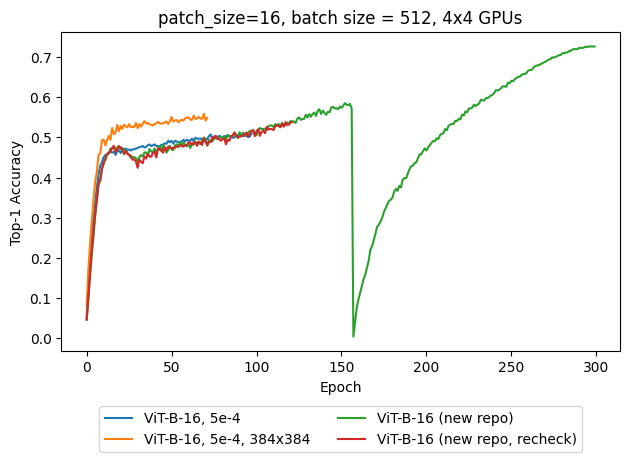
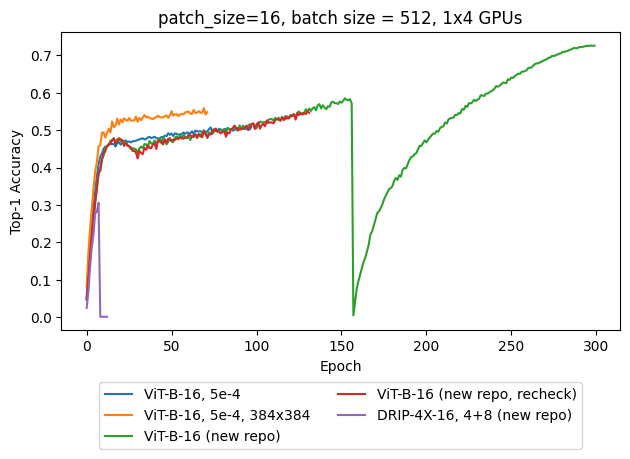
unexpected results for DRIP imagenet (due to LR?)

diff --git a/src/ImageNet_acc_vis.py b/src/ImageNet_acc_vis.py
@@ -46,7 +46,7 @@ def plot_acc_vis(model2acc: Dict, patch_size: int) -> None:
         plt.plot(accs, label=model)
     plt.xlabel("Epoch")
     plt.ylabel("Top-1 Accuracy")
-    plt.title(f"patch_size={patch_size}, batch size = 512, 4x4 GPUs")
+    plt.title(f"patch_size={patch_size}, batch size = 512, 1x4 GPUs")
     
     # Place legend outside below plot
     plt.legend(loc="upper center", bbox_to_anchor=(0.5, -0.15), ncol=2)
@@ -74,7 +74,8 @@ def main():
         #"DRIP-16-25%, 4+8, 5e-5": 'ImageNet_DRIP_4_8.txt',
         'ViT-B-16, 5e-4, 384x384': 'AUG_22_384_resolution_ViT.txt',
         'ViT-B-16 (new repo)': 'AUG_20_new_imagenet_codebase.txt',
-        'ViT-B-16 (new repo, recheck)': 'AUG_23_ViT_recheck.txt'
+        'ViT-B-16 (new repo, recheck)': 'AUG_23_ViT_recheck.txt',
+        'DRIP-4X-16, 4+8 (new repo)': 'AUG_23_DRIP_4x_4_8.txt'
     }
 
     model2acc = parse_all_accuracies(model2path)
